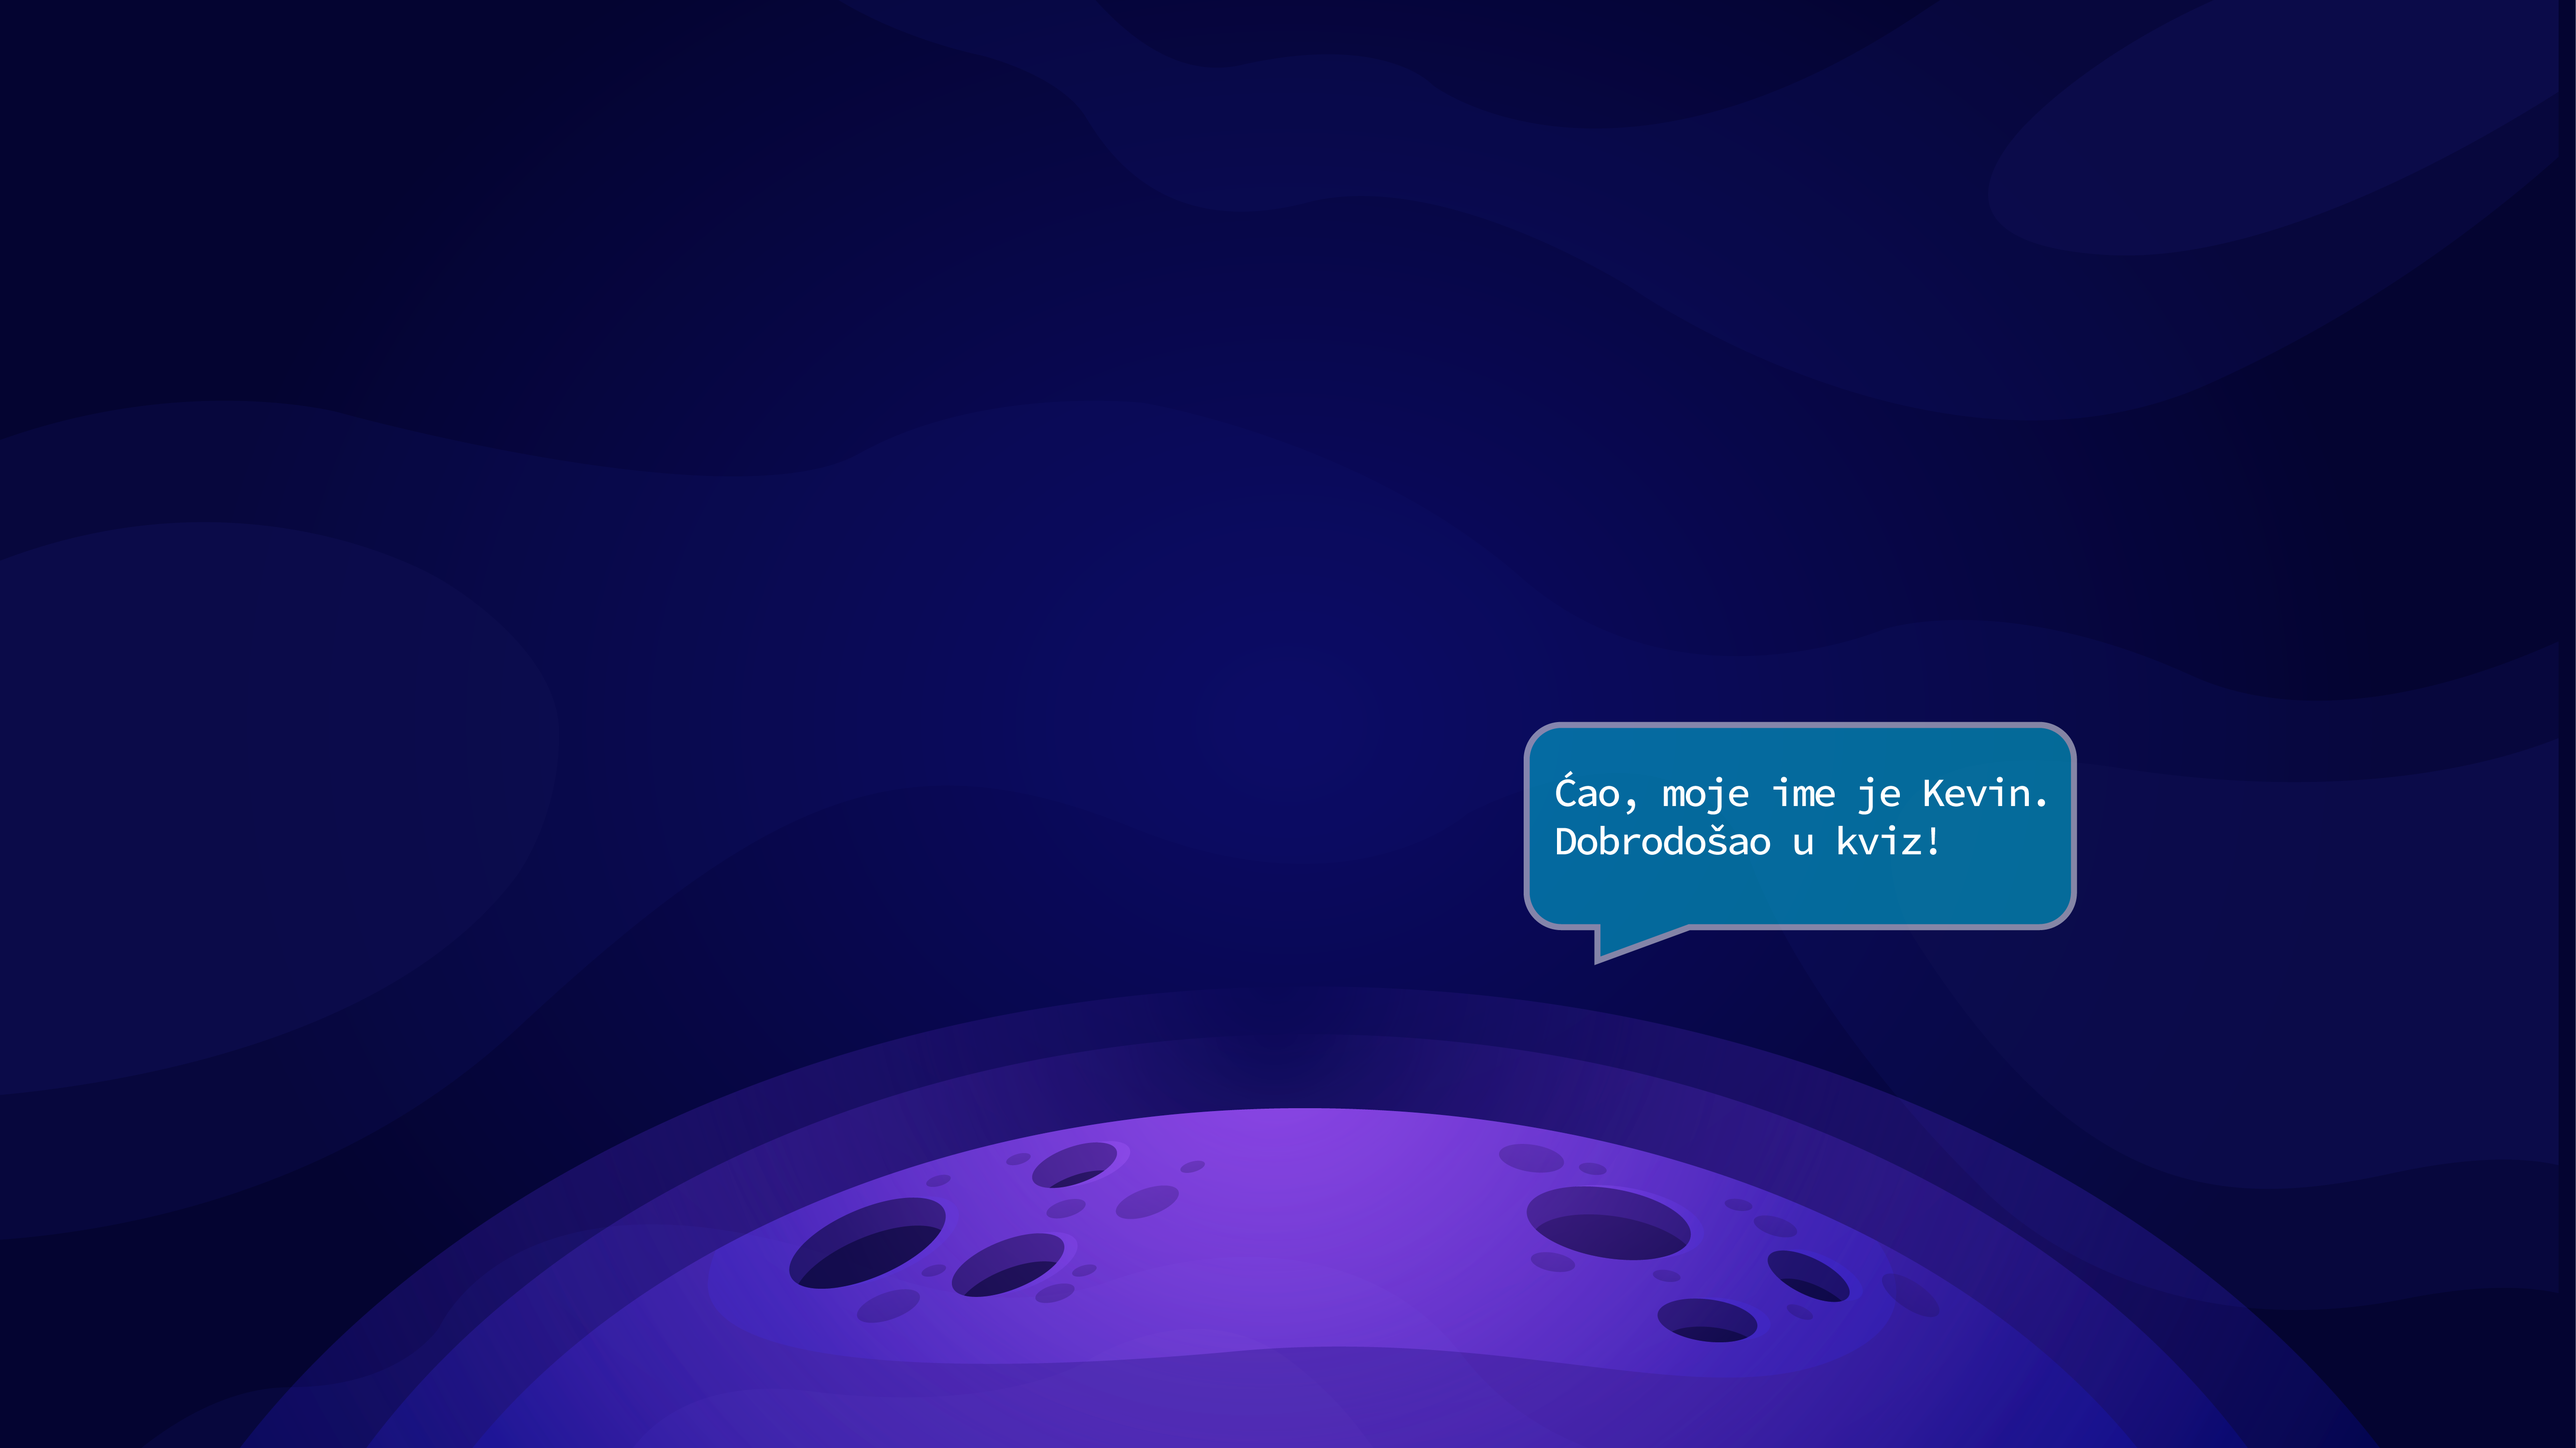
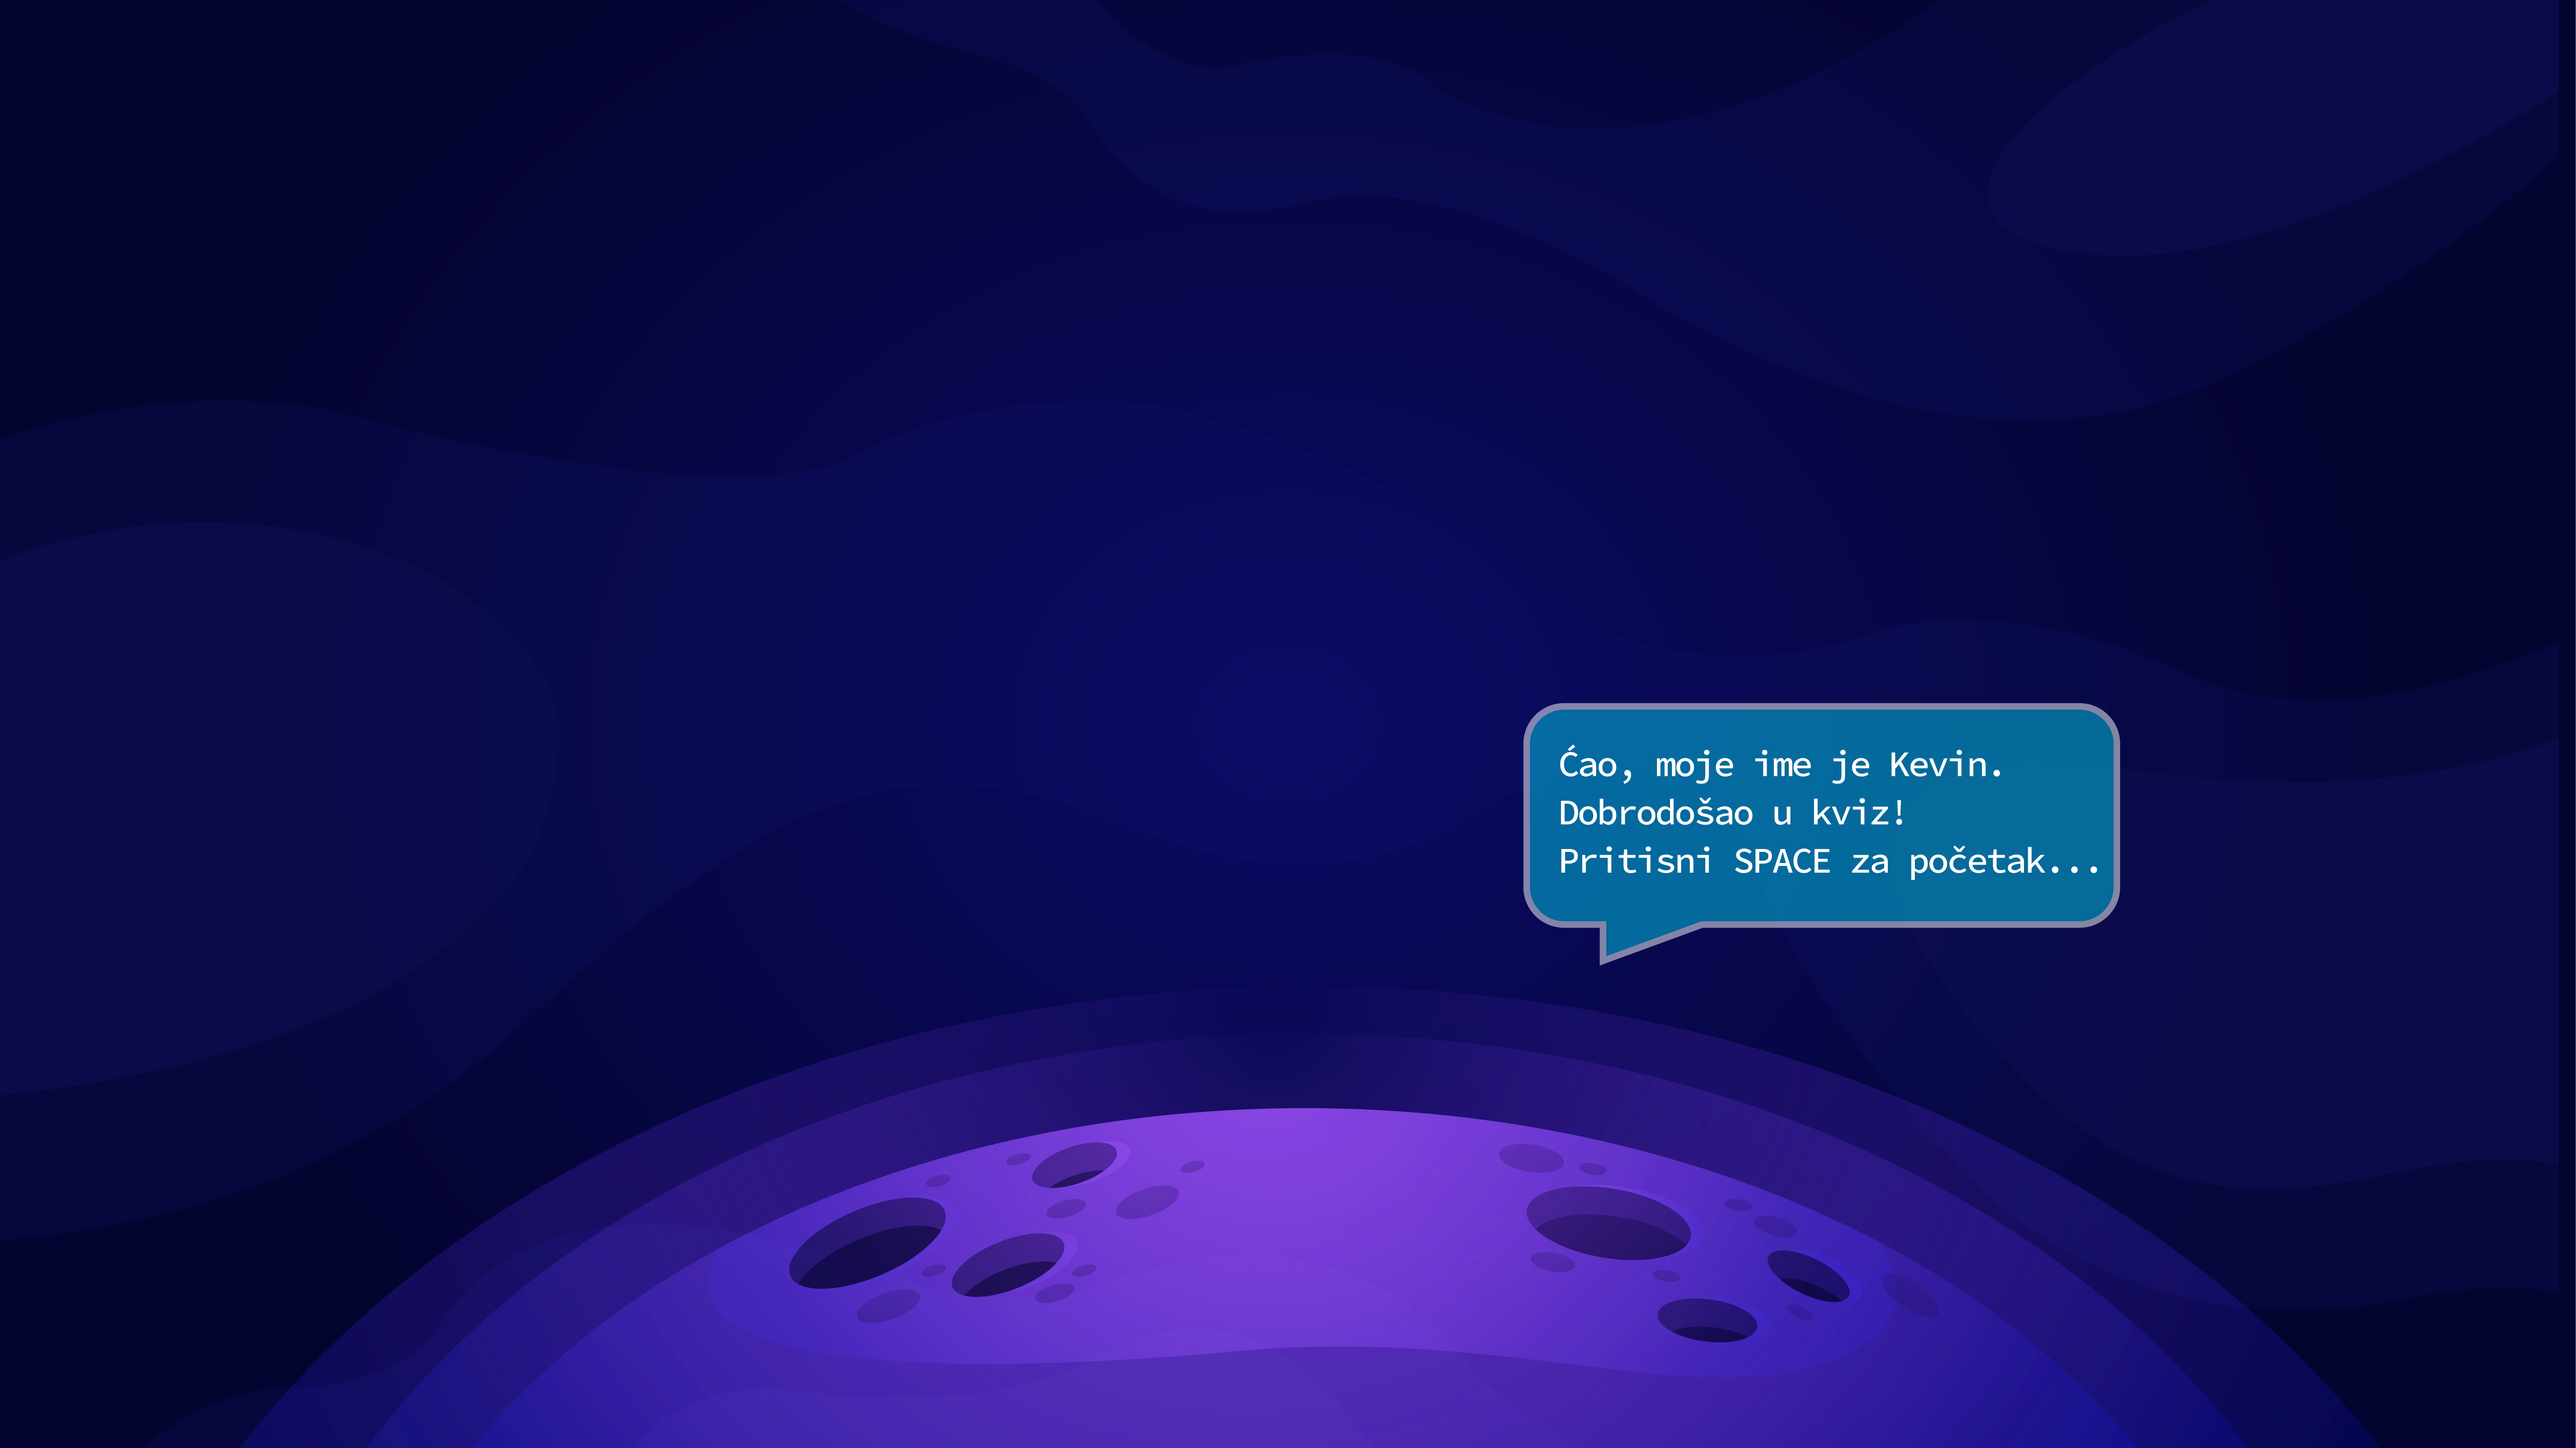
Dodata animacija planete i sredjuje se funkcija pritisni SPACE

Changed region(s): [[0.5913, 0.465, 0.8403, 0.651], [0.5913, 0.62, 0.6224, 0.651]]

diff --git a/src/resources/style/style.css b/src/resources/style/style.css
@@ -9,7 +9,9 @@
     -fx-background-image: url("/resources/img/background.png");
      -fx-background-size: 100% 100%;
 }
-
+#pressSpace{
+    -fx-background-color: transparent;
+}
 .button {
     -fx-background-color:
         linear-gradient(#ffd65b, #e68400),

diff --git a/src/controllers/QuizStartScreen.java b/src/controllers/QuizStartScreen.java
@@ -3,24 +3,29 @@ package controllers;
 
 import com.sun.xml.internal.bind.annotation.OverrideAnnotationOf;
 import javafx.animation.Animation;
+import javafx.animation.Interpolator;
 import javafx.animation.PathTransition;
+import javafx.animation.RotateTransition;
 import javafx.fxml.FXML;
 import javafx.fxml.Initializable;
 import javafx.geometry.Bounds;
+import javafx.scene.control.Button;
 import javafx.scene.image.ImageView;
 import javafx.scene.shape.Circle;
 import javafx.scene.shape.LineTo;
 import javafx.scene.shape.MoveTo;
 import javafx.scene.shape.Path;
+import javafx.scene.transform.Rotate;
 import javafx.util.Duration;
 
-import java.awt.*;
 import java.net.URL;
 import java.util.ResourceBundle;
 
 
 public class QuizStartScreen implements Initializable {
     @FXML private ImageView head;
+    @FXML private Button pressSpace;
+    @FXML private ImageView orangePlanet;
     private final double headWidth = 268;
     private final double headHeight = 190;
 
@@ -42,8 +47,21 @@ public class QuizStartScreen implements Initializable {
         transition.play();
     }
 
+    public void planetRotation(ImageView image){
+        RotateTransition rt = new RotateTransition(Duration.seconds(4), image);
+        rt.setByAngle(360);
+        rt.setCycleCount(Animation.INDEFINITE);
+        rt.setInterpolator(Interpolator.LINEAR);
+        rt.play();
+    }
+    public void pressSpaceToContinue(){
+        System.out.println("Space je pritisnut");
+    }
+
     @Override
     public void initialize(URL location, ResourceBundle resources) {
         animationUpDown();
+        planetRotation(this.orangePlanet);
+        this.pressSpace.requestFocus();
     }
 }
